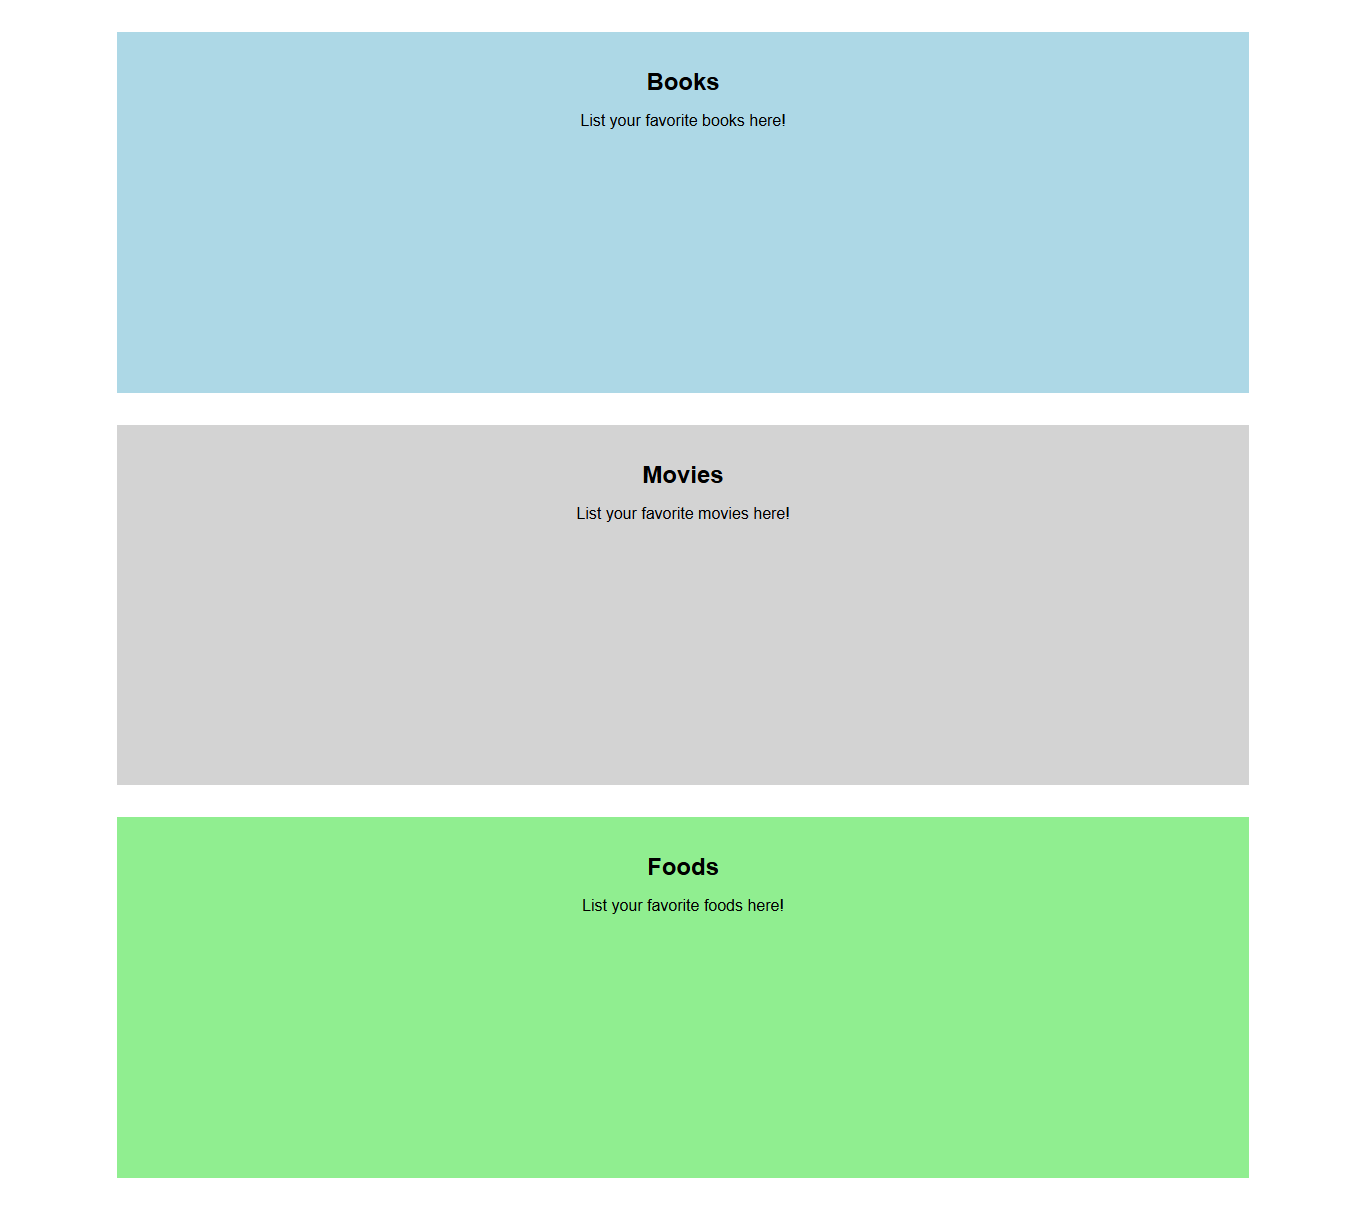
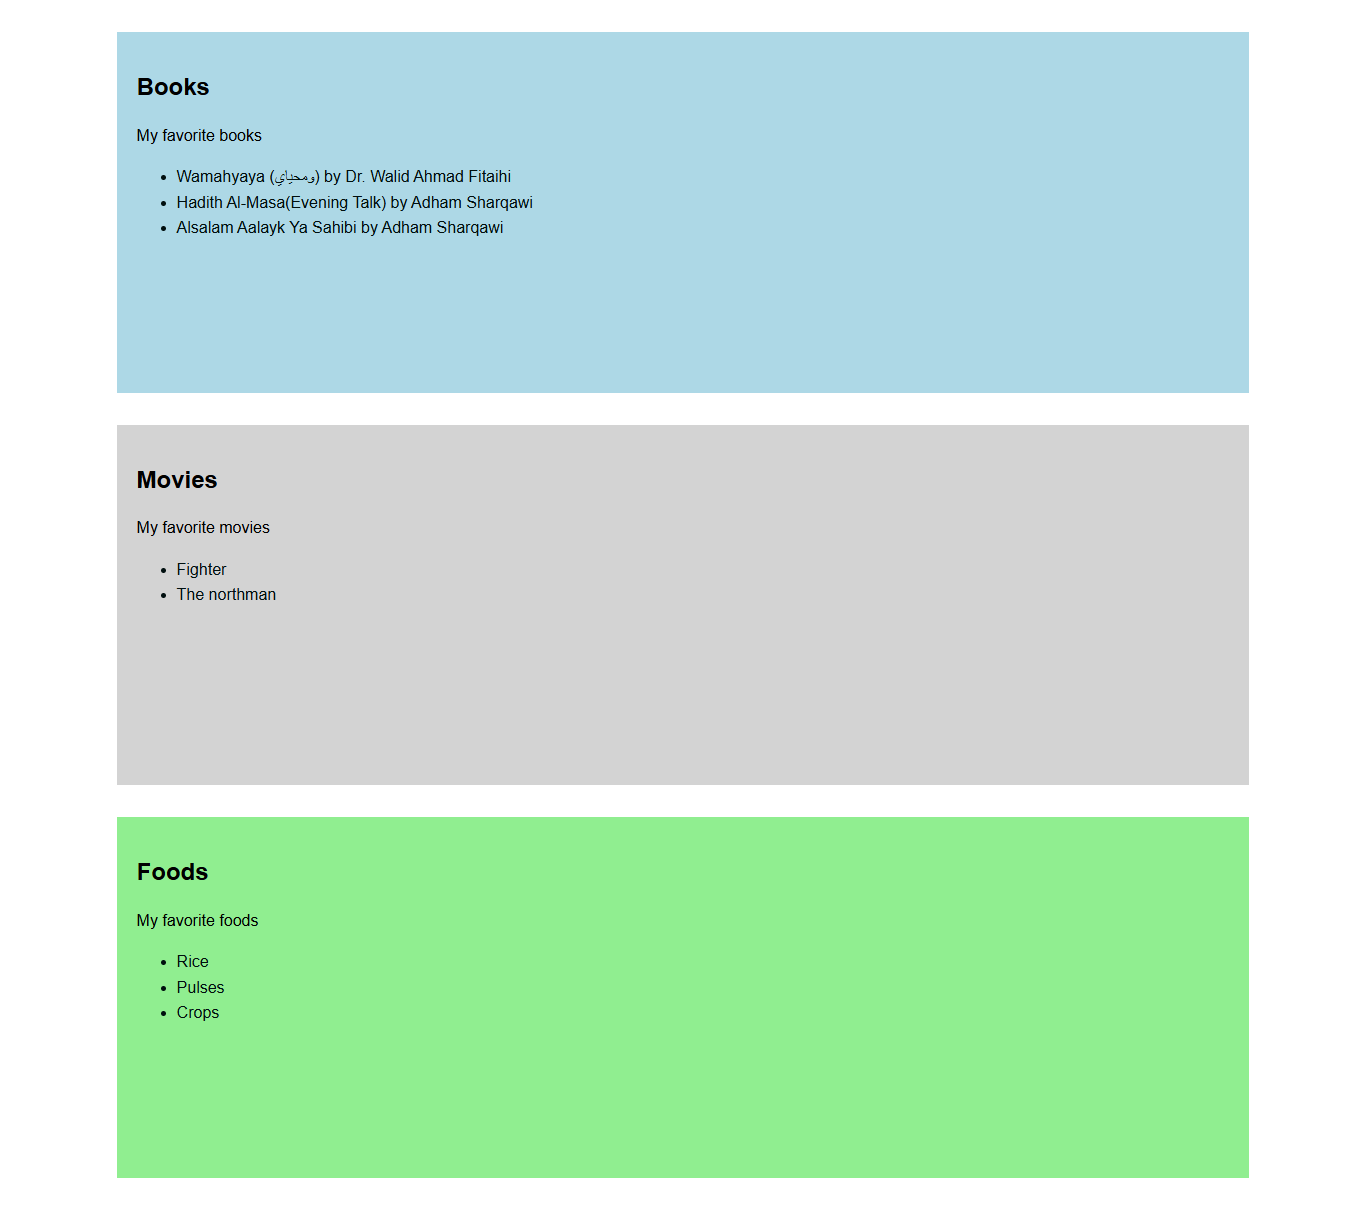
1.10 done

diff --git a/CSS/Assingments/Lesson 1/1.10-Stylish Content Sections.html b/CSS/Assingments/Lesson 1/1.10-Stylish Content Sections.html
@@ -11,17 +11,31 @@
 
     <div class="interest-section" id="books">
         <h1>Books</h1>
-        <p>List your favorite books here!</p>
+        <p>My favorite books</p>
+        <ul class="favs">
+            <li>Wamahyaya (ومحياي) by Dr. Walid Ahmad Fitaihi</li>
+            <li>Hadith Al-Masa(Evening Talk) by Adham Sharqawi</li>
+            <li>Alsalam Aalayk Ya Sahibi by Adham Sharqawi</li>
+        </ul>
     </div>
 
     <div class="interest-section" id="movies">
         <h1>Movies</h1>
-        <p>List your favorite movies here!</p>
+        <p>My favorite movies</p>
+        <ul class="favs">
+            <li>Fighter</li>
+            <li>The northman</li>
+        </ul>
     </div>
 
     <div class="interest-section" id="foods">
         <h1>Foods</h1>
-        <p>List your favorite foods here!</p>
+        <p>My favorite foods</p>
+        <ul class="favs">
+            <li>Rice</li>
+            <li>Pulses</li>
+            <li>Crops</li>
+        </ul>
     </div>
 
 </body>

diff --git a/CSS/Assingments/Lesson 1/1.10-Stylish Content Sections.css b/CSS/Assingments/Lesson 1/1.10-Stylish Content Sections.css
@@ -8,7 +8,8 @@ body {
     height: 50vh;
     margin: 5vh auto;
     padding: 20px;
-    text-align: center;
+    /* text-align: center; */
+    line-height: 1.6;
 }
 
 .interest-section h1 {
@@ -31,4 +32,8 @@ body {
 
 #foods {
     background-color: lightgreen;
+}
+
+.favs {
+    color: rgb(0, 15, 15);
 }
